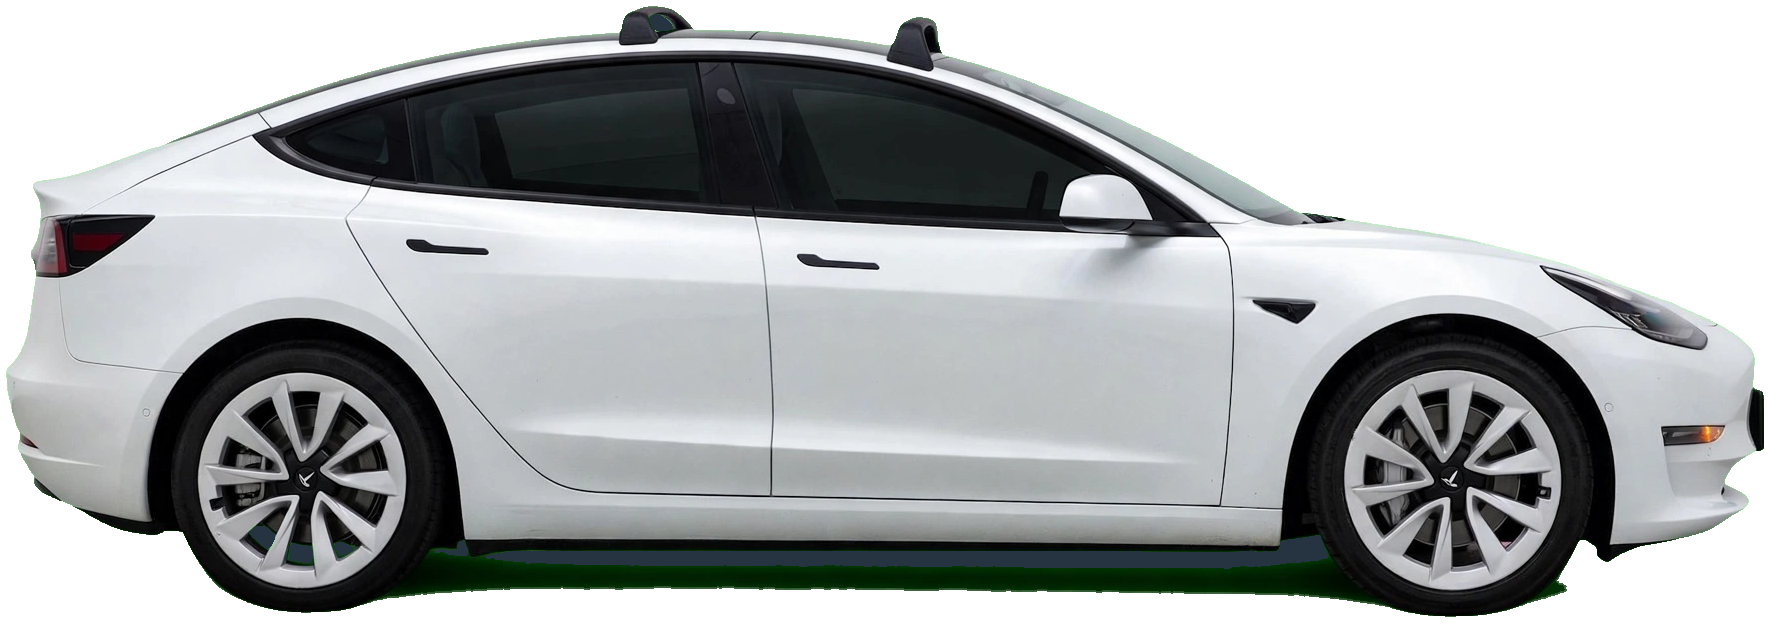
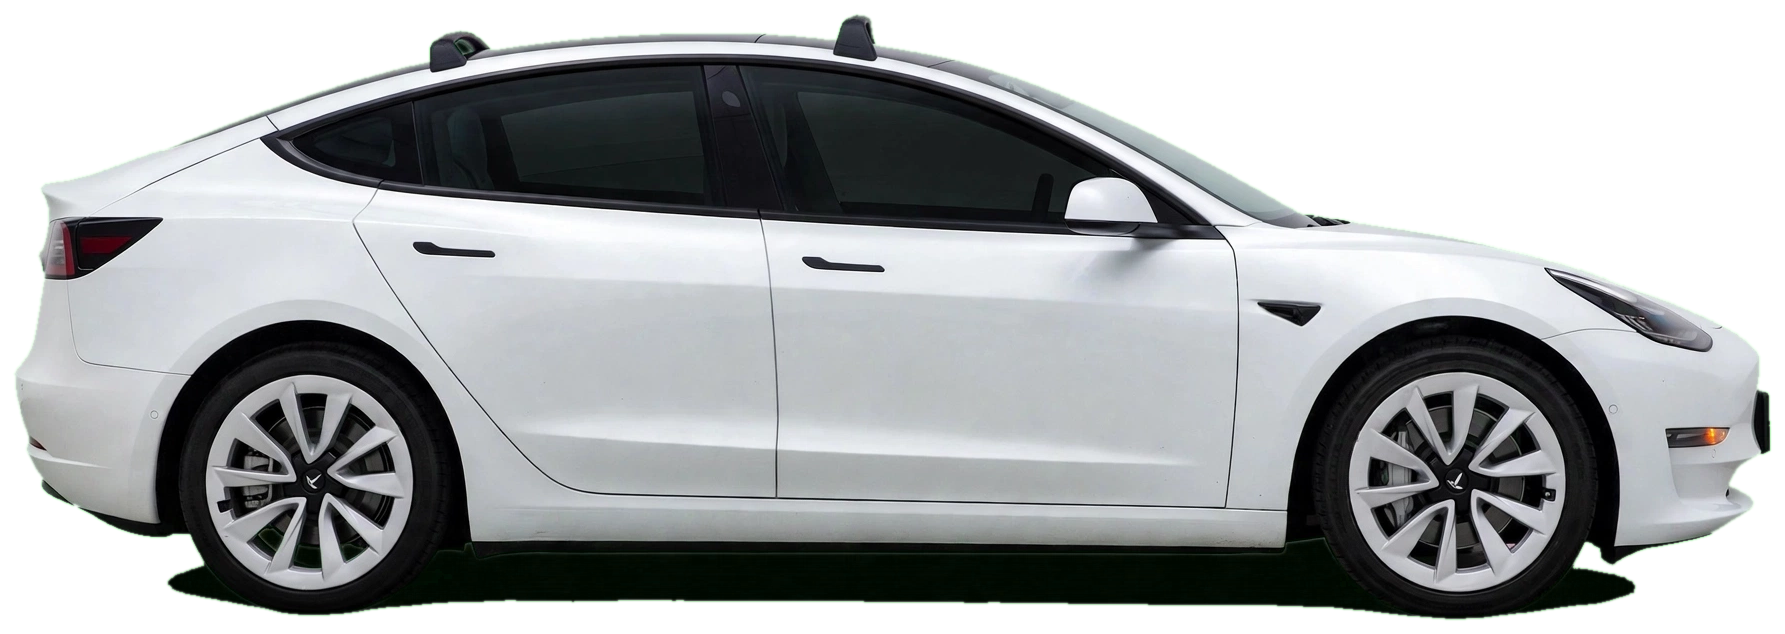
v10: satellite default, radar zoom clamp (maxNativeZoom 7), area names via reverse geocode, home-nudge flash fix, FSD badge, energy line + fleet vs-gas footer, car image fixes (bare rack, spoiler + camera accents)

diff --git a/app.js b/app.js
@@ -31,6 +31,9 @@ const store = {
   set token(v)  { localStorage.setItem("tw_token", v); },
   get rate()    { const v = parseFloat(localStorage.getItem("tw_rate")); return isNaN(v) ? 0.18 : v; },
   set rate(v)   { localStorage.setItem("tw_rate", String(v)); },
+  /* gas price for the fleet "vs gas car" comparison; AAA national avg Oct 2026 */
+  get gasPrice() { const v = parseFloat(localStorage.getItem("tw_gas")); return isNaN(v) ? 4.37 : v; },
+  set gasPrice(v) { localStorage.setItem("tw_gas", String(v)); },
   /* null until the user sets home (address lookup / pick on map / manual) */
   get homeLat() { const v = localStorage.getItem("tw_home_lat"); return v === null ? null : parseFloat(v); },
   get homeLon() { const v = localStorage.getItem("tw_home_lon"); return v === null ? null : parseFloat(v); },
@@ -150,6 +153,7 @@ function computeMonth(drives, charges, rate) {
     kwhUsed,
     estCost: kwhAdded !== null ? kwhAdded * rate : null,
     hasData: md.length > 0 || mc.length > 0,
+    driveMiles: totalMi,
   };
 }
 
@@ -246,17 +250,35 @@ function statsText(c) {
   return parts.length ? parts.join(" · ") : null;
 }
 
-/* "62% Autopilot/FSD · 84 kWh in ($15.12) · 76 kWh used" */
-function monthText(m) {
+/* Blue FSD badge, Tesla-style. Tooltip keeps the honesty note: Tesla reports
+ * this as Autopilot engagement miles (includes FSD); the API can't split them. */
+function fsdBadge(pct) {
+  return '<span class="fsd-badge" title="Tesla reports this as Autopilot engagement ' +
+    'miles (includes FSD); the API can\'t split basic Autopilot from FSD.">' +
+    '<svg viewBox="0 0 24 24" width="13" height="13" aria-hidden="true">' +
+    '<circle cx="12" cy="12" r="9" fill="none" stroke="#2E9BFF" stroke-width="2.2"/>' +
+    '<circle cx="12" cy="12" r="2.6" fill="#2E9BFF"/>' +
+    '<path d="M12 12V3.5M12 12l-6.8 4.9M12 12l6.8 4.9" stroke="#2E9BFF" ' +
+    'stroke-width="2.2" stroke-linecap="round"/></svg> FSD ' + pct.toFixed(0) + '%</span>';
+}
+
+/* Face: FSD badge + "Energy consumed: X kWh (~$Y)". Details (charged vs used)
+ * tuck into a click-to-expand <details> so the card stays clean. */
+function monthHtml(m) {
   if (!m || !m.hasData) return "No drives yet this month";
-  const parts = [];
-  if (m.autopilotPct !== null) parts.push(m.autopilotPct.toFixed(0) + "% Autopilot/FSD");
+  const face = [];
+  if (m.autopilotPct !== null) face.push(fsdBadge(m.autopilotPct));
   if (m.kwhAdded !== null) {
-    parts.push(m.kwhAdded.toFixed(0) + " kWh in" +
-      (m.estCost !== null ? " ($" + m.estCost.toFixed(2) + ")" : ""));
+    face.push("Energy consumed: <b>" + m.kwhAdded.toFixed(0) + " kWh (~$" +
+      (m.estCost !== null ? m.estCost.toFixed(2) : "?") + ")</b>");
   }
-  if (m.kwhUsed !== null) parts.push(m.kwhUsed.toFixed(0) + " kWh used");
-  return parts.length ? parts.join(" · ") : "No drives yet this month";
+  const faceHtml = face.length ? face.join(" · ") : "No drives yet this month";
+  const det = [];
+  if (m.kwhAdded !== null) det.push("Charged " + m.kwhAdded.toFixed(1) + " kWh");
+  if (m.kwhUsed !== null) det.push("Driving used " + m.kwhUsed.toFixed(1) + " kWh");
+  if (!det.length) return faceHtml;
+  return '<details class="monthdet"><summary>' + faceHtml + "</summary><div>" +
+    det.join(" · ") + "</div></details>";
 }
 
 /* ---------- car photo canvases with spinning wheels ---------- */
@@ -333,7 +355,7 @@ function renderCards(cars) {
     const batt = batteryText(car);
     const dist = distanceText(car);
     const stats = statsText(car);
-    const month = monthText(car.month);
+    const month = monthHtml(car.month);
     card.innerHTML =
       '<div class="card-top">' +
         '<canvas width="360" height="150" data-vin="' + car.vin + '"></canvas>' +
@@ -348,9 +370,9 @@ function renderCards(cars) {
       '<div class="details">' +
         '<div>Battery: <b>' + escapeHtml(batt || "unknown") + '</b></div>' +
         (car.lat !== null && car.lon !== null
-          ? '<div>Location: <b>' + car.lat.toFixed(4) + ", " + car.lon.toFixed(4) + '</b></div>' : "") +
+          ? '<div id="loc-' + car.vin + '">Location: <b>' + car.lat.toFixed(4) + ", " + car.lon.toFixed(4) + '</b></div>' : "") +
         (stats ? '<div>Stats: <b>' + escapeHtml(stats) + '</b></div>' : "") +
-        '<div>This month: <b>' + escapeHtml(month) + '</b></div>' +
+        '<div>This month: ' + month + '</div>' +
         (car.error ? '<div style="color:#e08a8a">' + escapeHtml(car.error) + '</div>' : "") +
       '</div>';
     wrap.appendChild(card);
@@ -358,7 +380,59 @@ function renderCards(cars) {
   }
   const upd = document.getElementById("updated");
   upd.textContent = "Updated " + new Date().toLocaleTimeString([], { hour: "numeric", minute: "2-digit" });
+  enrichLocations(cars);
   spinLoop();
+}
+
+/* ---------- human-readable area names (Nominatim reverse geocode) ----------
+ * Raw lat/lon means nothing to a human, so each car card shows "Downtown
+ * Tampa" style names. Results are cached in localStorage (keyed by rounded
+ * coords) and the 3 cars' first-time lookups are staggered ~1.2s apart to
+ * respect Nominatim's ~1 req/sec courtesy limit. Coords stay as a tiny
+ * muted subtitle; raw coords are always the fallback. */
+function areaKey(lat, lon) { return "tw_area_" + lat.toFixed(3) + "," + lon.toFixed(3); }
+function getAreaName(lat, lon) { return localStorage.getItem(areaKey(lat, lon)); }
+function setAreaName(lat, lon, name) {
+  try { localStorage.setItem(areaKey(lat, lon), name); } catch (e) { /* storage full: skip */ }
+}
+function formatArea(addr) {
+  if (!addr) return null;
+  const hood = addr.suburb || addr.neighbourhood || addr.city_district ||
+               addr.hamlet || addr.borough || addr.quarter || null;
+  const city = addr.city || addr.town || addr.village || addr.municipality ||
+               addr.county || null;
+  if (hood && city && hood !== city) return hood + ", " + city;
+  return hood || city || null;
+}
+async function reverseGeocode(lat, lon) {
+  const cached = getAreaName(lat, lon);
+  if (cached !== null) return cached || null;
+  try {
+    const r = await fetch("https://nominatim.openstreetmap.org/reverse?format=jsonv2&lat=" +
+      lat.toFixed(5) + "&lon=" + lon.toFixed(5) + "&zoom=14");
+    const j = await r.json();
+    const name = formatArea(j.address);
+    setAreaName(lat, lon, name || "");
+    return name;
+  } catch (e) { return null; }
+}
+function enrichLocations(cars) {
+  cars.forEach((car, i) => {
+    if (car.lat === null || car.lon === null) return;
+    const el = document.getElementById("loc-" + car.vin);
+    if (!el) return;
+    const apply = (name) => {
+      if (!name) return;  // lookup failed or empty: keep the coords fallback
+      const box = document.getElementById("loc-" + car.vin);
+      if (!box) return;
+      box.innerHTML = "Location: <b>" + escapeHtml(name) + "</b> " +
+        '<span class="coords" title="' + car.lat.toFixed(4) + ", " + car.lon.toFixed(4) + '">' +
+        car.lat.toFixed(2) + ", " + car.lon.toFixed(2) + "</span>";
+    };
+    const cached = getAreaName(car.lat, car.lon);
+    if (cached !== null) { if (cached) apply(cached); return; }
+    setTimeout(async () => { apply(await reverseGeocode(car.lat, car.lon)); }, i * 1200);
+  });
 }
 
 function escapeHtml(s) {
@@ -384,7 +458,7 @@ function initMap() {
     maxZoom: 19,
     attribution: 'Imagery &copy; Esri, Maxar, Earthstar Geographics',
   });
-  streetsLayer.addTo(map);
+  satelliteLayer.addTo(map);  /* satellite is the default base layer */
   carLayer = L.layerGroup().addTo(map);
   buildMapCtl();
   loadRadar();
@@ -425,7 +499,10 @@ function loadRadar() {
       const url = d.host + frame.path + "/256/{z}/{x}/{y}/2/1_1.png";
       if (radarLayer) radarLayer.setUrl(url);
       else {
-        radarLayer = L.tileLayer(url, { opacity: 0.55, zIndex: 10,
+        /* RainViewer radar tiles only exist for zoom 0-7 (z8+ returns a
+         * "zoom level not supported" tile). maxNativeZoom: 7 makes Leaflet
+         * upscale the z7 tiles at closer zooms instead of requesting z8+. */
+        radarLayer = L.tileLayer(url, { opacity: 0.55, zIndex: 10, maxNativeZoom: 7,
           attribution: 'Radar &copy; <a href="https://www.rainviewer.com/">RainViewer</a>' });
         if (radarOn) radarLayer.addTo(map);
         if (mapCtl && mapCtl._paint) mapCtl._paint();
@@ -532,8 +609,46 @@ function setPickMode(on) {
 function pickClick(e) { if (pickMarker) pickMarker.setLatLng(e.latlng); }
 
 /* ---------- refresh / settings ---------- */
+/* Home counts as set only when both coords are real numbers (guards against
+ * empty-string/NaN values that are !== null but unusable). */
+function isHomeSet() {
+  const la = store.homeLat, lo = store.homeLon;
+  return la !== null && lo !== null && !isNaN(la) && !isNaN(lo);
+}
+
+/* Fleet month-to-date totals footer: EV electricity cost vs the same miles
+ * in a 15-mpg gas car. Rendered below the car cards. */
+function renderFleetFooter(cars) {
+  const el = document.getElementById("fleet");
+  if (!el) return;
+  const rate = store.rate, gas = store.gasPrice;
+  let added = 0, miles = 0, any = false;
+  for (const c of cars) {
+    const m = c.month;
+    if (!m || !m.hasData) continue;
+    any = true;
+    if (m.kwhAdded) added += m.kwhAdded;
+    if (m.driveMiles) miles += m.driveMiles;
+  }
+  if (!any) { el.innerHTML = ""; return; }
+  const evCost = added * rate;
+  const gasCost = miles / 15 * gas;
+  const saved = gasCost - evCost;
+  const savedTxt = saved >= 0
+    ? "You saved ~$" + saved.toFixed(2) + " vs gas"
+    : "Gas would have been ~$" + Math.abs(saved).toFixed(2) + " cheaper";
+  el.innerHTML =
+    '<div class="fleet-card">⚡ This month: <b>$' + evCost.toFixed(2) + "</b> electricity · " +
+    "⛽ Same miles in a 15-mpg gas car: <b>~$" + gasCost.toFixed(2) + "</b><br/>" +
+    '<span class="saved">' + savedTxt + "</span></div>";
+}
+
 async function refresh() {
   const errBox = document.getElementById("err");
+  /* Decide about the home nudge BEFORE any async work, so the prompt can
+   * never flash on and off mid-refresh: it only ever appears when home is
+   * genuinely unset, and stays hidden otherwise. */
+  const needHomeNudge = !isHomeSet();
   errBox.hidden = true;
   if (!store.token) {
     document.getElementById("settings").hidden = false;
@@ -545,7 +660,8 @@ async function refresh() {
     const cars = await poll();
     renderCards(cars);
     renderMap(cars);
-    if (store.homeLat === null) {
+    renderFleetFooter(cars);
+    if (needHomeNudge && !isHomeSet()) {
       errBox.hidden = false;
       errBox.textContent = "Set your home location in Settings (address lookup or pick on map).";
     }
@@ -562,6 +678,7 @@ function initSettings() {
   });
   document.getElementById("tokenInput").value = store.token;
   document.getElementById("rateInput").value = String(store.rate);
+  document.getElementById("gasInput").value = String(store.gasPrice);
   document.getElementById("latInput").value = localStorage.getItem("tw_home_lat") || "";
   document.getElementById("lonInput").value = localStorage.getItem("tw_home_lon") || "";
   document.getElementById("latInput").placeholder = "e.g. 28.1397";
@@ -571,6 +688,8 @@ function initSettings() {
     store.token = document.getElementById("tokenInput").value.trim();
     const r = parseFloat(document.getElementById("rateInput").value);
     if (!isNaN(r) && r >= 0) store.rate = r;
+    const gp = parseFloat(document.getElementById("gasInput").value);
+    if (!isNaN(gp) && gp > 0) store.gasPrice = gp;
     const la = parseFloat(document.getElementById("latInput").value);
     const lo = parseFloat(document.getElementById("lonInput").value);
     if (!isNaN(la) && !isNaN(lo)) store.setHome(la, lo);

diff --git a/index.html b/index.html
@@ -1,4 +1,4 @@
-<!-- Smith Robotaxi HQ build 2026-10-07 v9 -->
+<!-- Smith Robotaxi HQ build 2026-10-07 v10 -->
 <!DOCTYPE html>
 <html lang="en">
 <head>
@@ -48,6 +48,23 @@
   #pickbar button.cancel { background:#555; }
   #lookupResult { font-size:13px; color:var(--muted); margin-top:6px; }
   #useAddrBtn { background:#2e7d32 !important; }
+  .coords { font-size:11px; color:var(--faint); }
+  .fsd-badge { display:inline-flex; align-items:center; gap:4px; font-size:12px; font-weight:700;
+               color:#fff; background:rgba(46,155,255,.16); border:1px solid #2E9BFF;
+               border-radius:8px; padding:2px 8px; vertical-align:1px;
+               animation:fsdpulse 2.6s ease-in-out infinite; }
+  @keyframes fsdpulse {
+    0%,100% { box-shadow:0 0 5px rgba(46,155,255,.30); }
+    50%     { box-shadow:0 0 13px rgba(46,155,255,.65); }
+  }
+  .monthdet summary { cursor:pointer; list-style:none; }
+  .monthdet summary::-webkit-details-marker { display:none; }
+  .monthdet > div { font-size:12px; color:var(--muted); margin-top:4px; }
+  #fleet { padding:0 14px; }
+  .fleet-card { background:#17251c; border:1px solid #2e5a3a; border-radius:14px;
+                padding:12px; font-size:13px; color:var(--muted); line-height:1.7; }
+  .fleet-card b { color:var(--fg); }
+  .fleet-card .saved { color:#7ee2a0; font-weight:700; font-size:14px; }
 </style>
 </head>
 <body>
@@ -63,6 +80,8 @@
   <input id="tokenInput" type="text" placeholder="paste token here" autocomplete="off" spellcheck="false"/>
   <label>Electricity rate ($/kWh) — used for the month charging-cost estimate</label>
   <input id="rateInput" type="text" inputmode="decimal" placeholder="0.18"/>
+  <label>Gas price ($/gal) — AAA national avg, Oct 2026</label>
+  <input id="gasInput" type="text" inputmode="decimal" placeholder="4.37"/>
   <label>Home location — type an address, or pick a point on the map</label>
   <input id="addrInput" type="text" placeholder="123 Main St, Tampa, FL" autocomplete="off"/>
   <button id="lookupBtn" style="margin-top:8px">Look up address</button>
@@ -78,6 +97,7 @@
 
 <div id="err" class="err" hidden></div>
 <div id="cards"></div>
+<div id="fleet"></div>
 <div id="map">
   <div id="pickbar" hidden>
     <button id="pickOkBtn">Confirm home</button>
@@ -86,6 +106,6 @@
 </div>
 
 <script src="https://unpkg.com/leaflet@1.9.4/dist/leaflet.js"></script>
-<script src="app.js"></script>
+<script src="app.js?v=20261007v10"></script>
 </body>
 </html>
